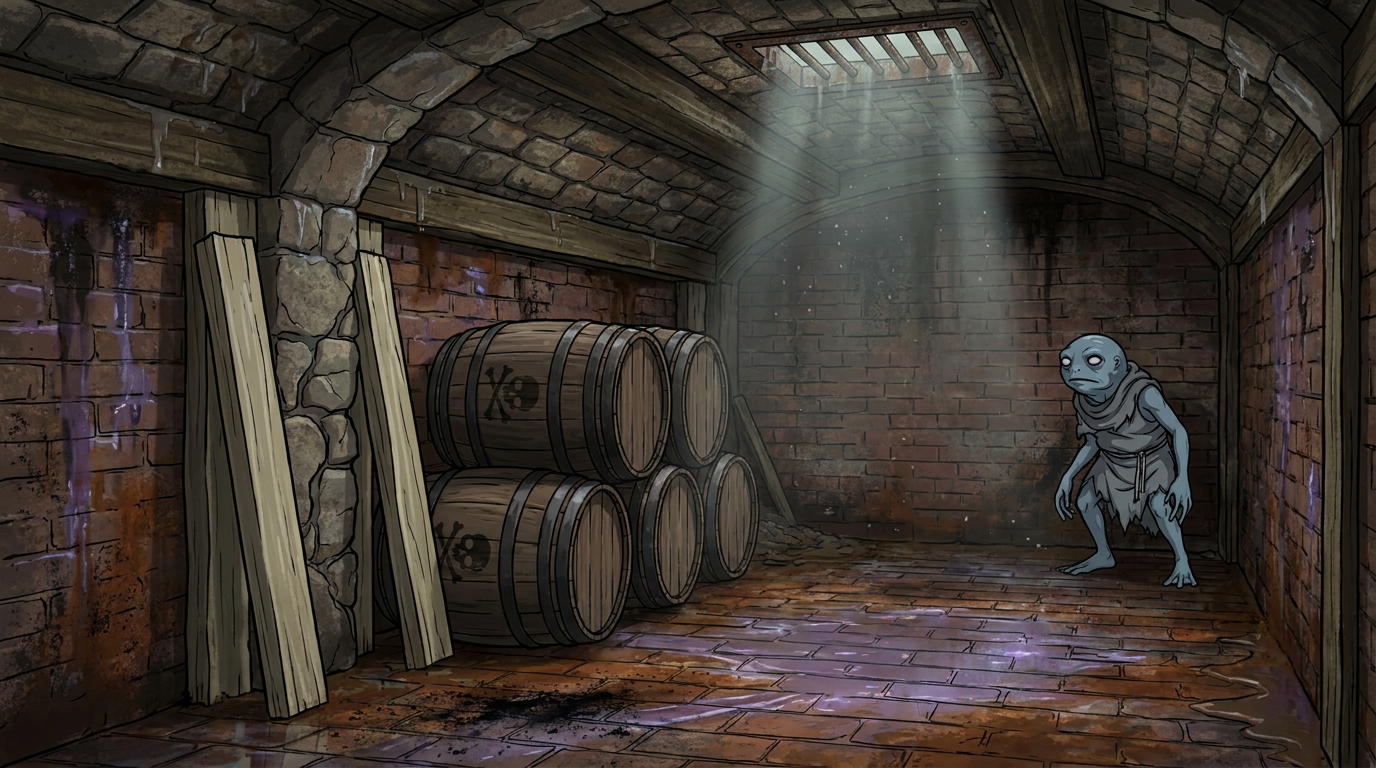
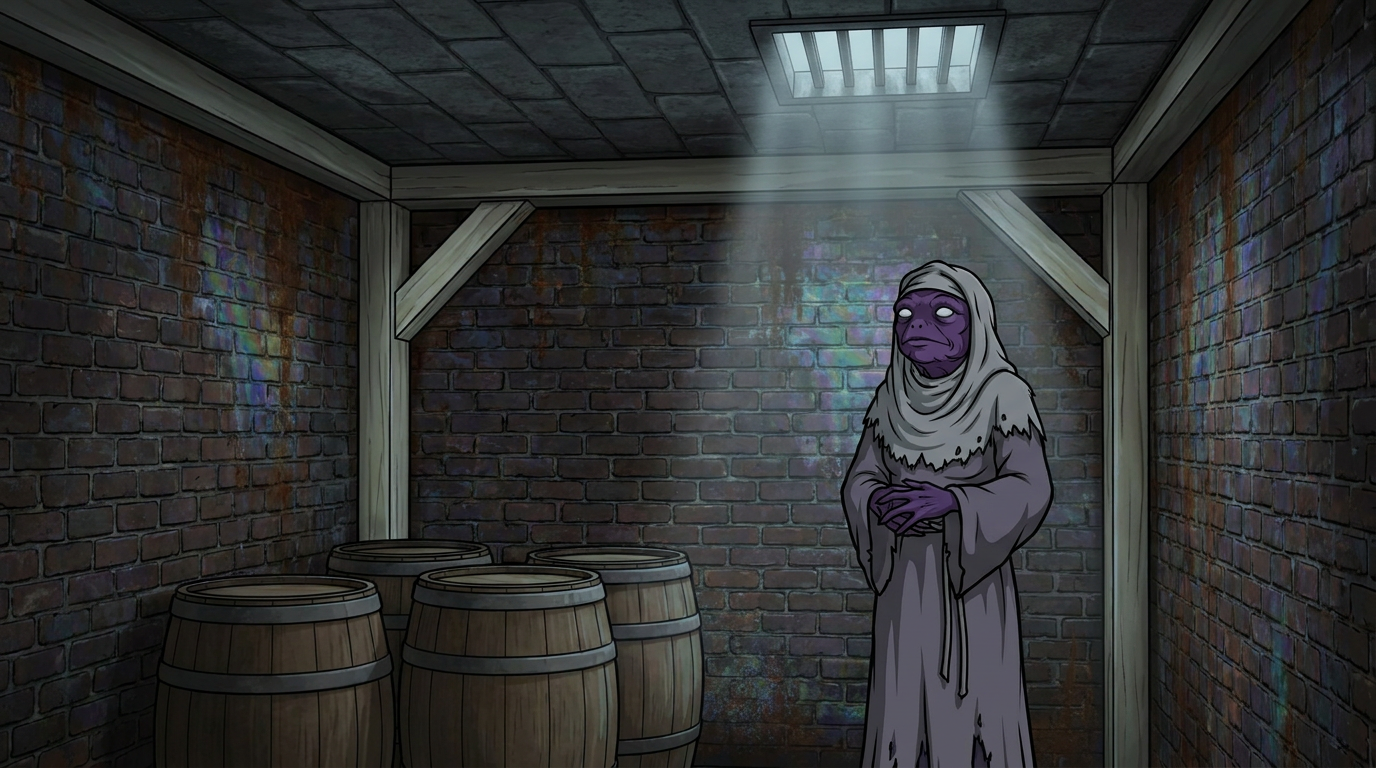
prep: correct Bazzoth and Vashu caste/age in art and canon
Both lieutenants were rendered with approximated appearances because neither
stat page recorded caste color, age, or sex. Corrected to canon:

- Bazzoth is an OLD RED-caste grung (not blue) — which also resolves the
  read-aloud contradicting the guide's own 'red-caste ritual practice' note
- Vashu is an OLDER FEMALE PURPLE-caste grung with blank white blind eyes

Regenerated both scene stills, synced the run-guide read-aloud + alt text, and
recorded an Appearance line on each stat page so future art won't re-approximate.

diff --git a/wiki/entities/creatures/active/bazzoth-the-steeped.md b/wiki/entities/creatures/active/bazzoth-the-steeped.md
@@ -1,0 +1,101 @@
+---
+type: monster
+subtype: monster
+campaign: shattered-sea
+status: active
+audience: dm
+publish: false
+summary: CR 6 grung lieutenant. Fearless alchemist-brawler soused on his own reagent-spirits; hurls acid/poison flasks, teleports through reeking steps, and can invoke a self-buff rite (Shed the Years) that sheds decades and turns his lash magical. Prepped for the back half of the Calveno sewer magazine dungeon.
+created: 2026-07-01
+updated: 2026-07-01
+tags:
+  - grung
+  - combat
+sources:
+  - Inbox/Bazzoth-Statblock.md
+confidence_level: high
+aliases:
+  - Bazzoth
+  - The Steeped
+cr: 6
+creature_type: humanoid
+environment: sewer, urban
+statblock: inline
+---
+
+# Bazzoth, the Steeped
+
+```statblock
+layout: Basic 5e Layout
+name: Bazzoth, the Steeped
+size: Small
+type: humanoid
+subtype: grung
+campaign: shattered-sea
+alignment: lawful evil
+ac: 15
+ac_class: bone-plate apron and bench-harness
+hp: 132
+hit_dice: 24d6 + 48
+speed: "25 ft., climb 25 ft., swim 25 ft."
+stats: [9, 14, 15, 18, 12, 15]
+saves:
+  - constitution: 5
+  - intelligence: 7
+skillsaves:
+  - arcana: 7
+  - medicine: 7
+  - nature: 7
+  - insight: 4
+damage_immunities: "poison"
+condition_immunities: "poisoned"
+senses: "passive Perception 14"
+languages: "Grung, Common"
+cr: 6
+traits:
+  - name: Steeped
+    desc: "Bazzoth is soused on the same reagent-spirits he distils, and it has pickled fear and doubt out of him. He has advantage on saving throws against being charmed or frightened, and on Constitution saving throws made to maintain concentration. A creature relying on scent to track or read him works at a disadvantage."
+  - name: Toxic Secretion
+    desc: "A creature that touches Bazzoth or hits him with a melee attack while within 5 feet, or that grapples him, must succeed on a DC 13 Constitution saving throw or take 5 (2d4) poison damage and be poisoned until the start of its next turn."
+  - name: Standing Leap
+    desc: "Bazzoth's long jump is 25 feet and his high jump is 15 feet, with or without a running start. He rarely bothers — until the rite is on him (see Shed the Years)."
+  - name: Master of the Bench
+    desc: "Bazzoth is never surprised while conscious, and is immune to the effects of his own concoctions. A creature that is poisoned has disadvantage on saving throws against his concoctions until the end of its next turn."
+  - name: "Legendary Resistance (1/Day)"
+    desc: "If Bazzoth fails a saving throw, he can choose to succeed instead. The old vintage does not go over on the first push — and the rite does not break on the first good hit."
+actions:
+  - name: Multiattack
+    desc: "Bazzoth makes two attacks, using Hurled Flask or Envenomed Lash in any combination. While Shed the Years is active, he makes one additional Envenomed Lash attack."
+  - name: Hurled Flask
+    desc: "Ranged Weapon Attack: +6 to hit, range 30/90 ft., one target. Hit: 11 (2d8 + 2) acid or poison damage (his choice each throw), and the target has disadvantage on the next saving throw it makes against one of Bazzoth's concoctions before the end of Bazzoth's next turn."
+  - name: Envenomed Lash
+    desc: "Melee Weapon Attack: +6 to hit, reach 10 ft., one target. Hit: 9 (2d6 + 2) poison damage, and the target must succeed on a DC 15 Constitution saving throw or be poisoned until the end of its next turn. While Shed the Years is active, this attack is magical, is made at +8 to hit, and deals an extra 5 (1d10) force damage."
+  - name: "Sump-Reek Bomb (Recharge 5–6)"
+    desc: "Bazzoth hurls a sealed bone flask that bursts into a 20-foot-radius cloud centred on a point he can see within 60 feet. Each creature in that area makes a DC 15 Constitution saving throw, taking 21 (6d6) poison damage on a failure, or half as much on a success. A creature that fails is also poisoned and repeats the save at the end of each of its turns, ending the effect on a success. The cloud lingers and heavily obscures its area until the start of Bazzoth's next turn; a creature that enters it for the first time on a turn, or starts its turn there, is subjected to the save."
+bonus_actions:
+  - name: Clinging Ichor
+    desc: "Bazzoth lobs a flask of sump-glue at a point he can see within 30 feet, coating a 10-foot-radius area that is difficult terrain until the start of his next turn. A creature in the area when it lands, or that enters it for the first time on a turn, must succeed on a DC 15 Strength saving throw or have its speed reduced to 0 until the end of its next turn. He cannot use this the same turn he invokes Shed the Years."
+  - name: "Shed the Years"
+    desc: "Bazzoth swigs from his gourd and speaks a red-caste rite over his own body, and decades unspool from it. He concentrates to maintain the rite (as if concentrating on a spell); it lasts up to 1 minute. While active: his walking speed increases by 15 feet and his movement no longer provokes opportunity attacks; he gains a +2 bonus to AC and has advantage on Dexterity saving throws; his melee attacks become magical, more accurate, and harder-hitting (see Envenomed Lash); and his Multiattack includes one additional Envenomed Lash. If his concentration is broken, the rite ends."
+reactions:
+  - name: "Reeking Step (3/Day)"
+    desc: "When Bazzoth takes damage, or a creature ends its turn within 5 feet of him, he speaks a short rite and steps through a puff of stinging reek, teleporting to an unoccupied space he can see within 30 feet. This movement does not provoke opportunity attacks."
+```
+
+## Notes
+
+**Appearance:** an old red-caste grung — thick and heavyset, brick-red hide dulled and mottled with age, sagging wattled throat; bone-plate apron over a bench-harness of reagent vials, an ever-present drinking gourd.
+
+Guards **Room 5 (Magazine Beta)** in the [[wiki/sessions/calveno-sewers-grung-magazines|Calveno sewer magazine dungeon]], alongside 2 Grung laborers (assigned 2026-07-01 — party had reached Room 6/Ruma and neutralized Room 4/Magazine Alpha). This escalates Room 5 well past its original "Hard" rating (~4,800 adj. XP) — verify against current party resources before running.
+
+Shed the Years is a concentration self-buff — breaking his concentration (any damage, DC 15+ half-damage Con save at the poisoned-disadvantage penalty) strips the extra attack, magical damage, and mobility. Reeking Step (3/day) makes him hard to pin in melee; Sump-Reek Bomb is his AoE anchor at Recharge 5-6.
+
+## Related
+
+- [[vashu-the-weeping-veil|Vashu, the Weeping Veil]]
+- [[ozvok-the-vermillion-distiller|Ozvok, the Vermillion Distiller]]
+- [[ozzeth-the-twiceborn|Ozzeth, the Twiceborn]]
+- [[grung-elite-warrior|Grung Elite Warrior]]
+- [[grung-clans|Grung Clans (Faction)]]
+- [[wiki/sessions/calveno-sewers-grung-magazines|Calveno Sewer Magazines]]
+- [[simone-tabarnack|Simone Tabarnack]]

diff --git a/wiki/sessions/session-06-run-guide.md b/wiki/sessions/session-06-run-guide.md
@@ -243,10 +243,10 @@ Once Room 6 is settled — rested or not — the party chooses where to head. Do
 
 *Room 5, off the mortared breach from Room 6. Run only if they open this door.*
 
-![[wiki/assets/sessions/session-06/06-magazine-beta-bazzoth.webp|Cinematic establishing still, Renaissance / Age-of-Sail world, adult animated cel-shaded illustration in the style of the TV show Archer — bold clean ink outlines, flat graphic color, hard cel shadows, no text or lettering. A grimy vaulted underground sewer magazine bay lit by pale green bioluminescent fungus and a low lantern. Half-built timber scaffolding climbs the left wall, one beam braced to the ceiling and another leaning loose; wooden blackpowder barrels sit on wet stone and half-sunk in a flooded corner, beside a hand drill, coiled rope with an iridescent chemical sheen, and a wooden bowl of cold rice. At a cluttered alchemist's mixing station in the wet corner stands Bazzoth, a thick heavyset small poison-dart-frog grung with smooth deep-blue skin, webbed hands, and a broad blunt frog face with heavy-lidded fearless eyes; he wears a bone-plate apron and a bench-harness of glass vials, and reaches for a battered drinking gourd, unhurried. Chemical haze hangs in the air. Cold green glow against warm lantern light. Generated with Nano Banana Pro (gemini-3-pro-image), 16:9.]]
+![[wiki/assets/sessions/session-06/06-magazine-beta-bazzoth.webp|Cinematic establishing still, Renaissance / Age-of-Sail world, adult animated cel-shaded illustration in the style of the TV show Archer — bold clean ink outlines, flat graphic color, hard cel shadows, no text or lettering. A grimy vaulted underground sewer magazine bay lit by pale green bioluminescent fungus and a low lantern. Half-built timber scaffolding climbs the left wall, one beam braced to the ceiling and another leaning loose; wooden blackpowder barrels sit on wet stone and half-sunk in a flooded corner, beside a hand drill, coiled rope with an iridescent chemical sheen, and a wooden bowl of cold rice. At a cluttered alchemist's mixing station in the wet corner stands Bazzoth, an old, thick, heavyset poison-dart-frog grung with deep brick-red skin gone dull and mottled with age, a sagging wattled throat, webbed hands, and a broad blunt frog face with heavy-lidded, fearless, slightly bloodshot eyes; he wears a bone-plate apron and a bench-harness of glass vials, and reaches for a battered drinking gourd, unhurried. Chemical haze hangs in the air. Cold green glow against warm lantern light. Generated with Nano Banana Pro (gemini-3-pro-image), 16:9.]]
 
 > [!read-aloud]
-> The breach opens into a working bay, and the chemical bite here is worse — concentrated, with nowhere to vent. Scaffolding climbs one wall half-built, one beam braced to the ceiling, another leaning loose. Barrels sit on the stones and in the flooded corner, not yet stacked, beside a hand drill, coiled rope slick with iridescent residue, and a wooden bowl of cold rice. A thick blue Grung looks up from a mixing station in the wet corner, unhurried, and reaches for his gourd.
+> The breach opens into a working bay, and the chemical bite here is worse — concentrated, with nowhere to vent. Scaffolding climbs one wall half-built, one beam braced to the ceiling, another leaning loose. Barrels sit on the stones and in the flooded corner, not yet stacked, beside a hand drill, coiled rope slick with iridescent residue, and a wooden bowl of cold rice. A thick old Grung, red hide gone dull and mottled, looks up from a mixing station in the wet corner, unhurried, and reaches for his gourd.
 
 **What's true:** [[bazzoth-the-steeped|Bazzoth, the Steeped]] (CR 6) has claimed Beta as his working magazine, backed by 2 [[grung-npc|Grung]] laborers — one building the scaffold, one watching the tunnel mouth. His attention is split; the party gains **advantage on Stealth to approach.** Six blackpowder barrels sit loose, not stacked.
 
@@ -269,7 +269,7 @@ Once Room 6 is settled — rested or not — the party chooses where to head. Do
 
 *Room T1, via Room 7 then backtrack to Room 3's barred culvert. Run only if they open this door.*
 
-![[wiki/assets/sessions/session-06/06-magazine-gamma-vashu.webp|Cinematic establishing still, Renaissance / Age-of-Sail world, adult animated cel-shaded illustration in the style of the TV show Archer — bold clean ink outlines, flat graphic color, hard cel shadows, no text or lettering. A cramped, low old-brick underground magazine with a five-foot ceiling pressing close to the waterline, dim and claustrophobic. Four wooden blackpowder barrels sit under a stone seam braced with fresh pale timber; rust, powder, and an iridescent chemical film coat the wet brick. Against the far wall stands Vashu, a small poison-dart-frog grung monk with smooth muted blue-grey skin and webbed hands, utterly still, head tilted as if listening; her eyes are blind and clouded milky-white, and she is wrapped in a tattered grey rag veil and simple monastic cloth wraps. A single dim shaft of light falls from a drain grate above. Cool, shadowed, tense. Generated with Nano Banana Pro (gemini-3-pro-image), 16:9.]]
+![[wiki/assets/sessions/session-06/06-magazine-gamma-vashu.webp|Cinematic establishing still, Renaissance / Age-of-Sail world, adult animated cel-shaded illustration in the style of the TV show Archer — bold clean ink outlines, flat graphic color, hard cel shadows, no text or lettering. A cramped, low old-brick underground magazine with a five-foot ceiling pressing close to the waterline, dim and claustrophobic. Four wooden blackpowder barrels sit under a stone seam braced with fresh pale timber; rust, powder, and an iridescent chemical film coat the wet brick. Against the far wall stands Vashu, an older female poison-dart-frog grung monk with smooth deep-purple skin and webbed hands, dignified and composed, standing upright and utterly still with quiet monastic poise, head calmly tilted as if listening; her blind eyes are fully blank milk-white with no pupils, and she wears a tattered grey rag veil draped over her head and simple monastic robes and wraps. A single soft shaft of light falls from a drain grate above and catches her. Cool, shadowed, still, reverent. Generated with Nano Banana Pro (gemini-3-pro-image), 16:9.]]
 
 > [!read-aloud]
 > The culvert opens into older brickwork, lower and tighter — a five-foot ceiling that puts your face near the waterline. Four barrels sit under a stone seam braced with fresh timber. Powder, rust, and the same sweet chemical film thicken in the tight space until breathing feels deliberate. Festival feet drum faintly through the Bridge stones overhead. A blind Grung in a rag veil stands utterly still against the far wall, head tilted, listening.

diff --git a/wiki/entities/creatures/active/vashu-the-weeping-veil.md b/wiki/entities/creatures/active/vashu-the-weeping-veil.md
@@ -1,0 +1,97 @@
+---
+type: monster
+subtype: monster
+campaign: shattered-sea
+status: active
+audience: dm
+publish: false
+summary: CR 5 grung lieutenant. Blind fighter who perceives by vibration and scent, fights with poisoned unarmed strikes, and covers herself in a blinding/poisoning bone-vial mist. Prepped for the back half of the Calveno sewer magazine dungeon.
+created: 2026-07-01
+updated: 2026-07-01
+tags:
+  - grung
+  - combat
+sources:
+  - Inbox/Vashu-Statblock.md
+confidence_level: high
+aliases:
+  - Vashu
+  - The Weeping Veil
+cr: 5
+creature_type: humanoid
+environment: sewer, urban
+statblock: inline
+---
+
+# Vashu, the Weeping Veil
+
+```statblock
+layout: Basic 5e Layout
+name: Vashu, the Weeping Veil
+size: Small
+type: humanoid
+subtype: grung
+alignment: lawful evil
+ac: 16
+ac_class: unarmored (still-water discipline)
+hp: 97
+hit_dice: 15d6 + 45
+speed: "30 ft., climb 30 ft."
+stats: [12, 18, 16, 11, 17, 13]
+saves:
+  - dexterity: 7
+  - wisdom: 6
+skillsaves:
+  - acrobatics: 7
+  - athletics: 4
+  - insight: 6
+  - perception: 6
+damage_immunities: "poison"
+condition_immunities: "blinded, poisoned"
+senses: "blindsight 30 ft. (blind beyond this radius), passive Perception 16"
+languages: "Grung"
+cr: 5
+traits:
+  - name: Blind Discipline
+    desc: "Vashu can't use sight and is unaffected by anything that relies on seeing her or on obscured vision. She perceives everything within 30 feet by vibration and scent, ignoring darkness, fog, invisibility, and her own Weeping Veil. An attacker Vashu can perceive gains no benefit from being unseen."
+  - name: Standing Leap
+    desc: "Vashu's long jump is 25 feet and her high jump is 15 feet, with or without a running start."
+  - name: Evasion
+    desc: "When Vashu is subjected to an effect that allows a Dexterity saving throw for half damage, she instead takes no damage on a success and half on a failure."
+  - name: Venom-Wet Strikes
+    desc: "A creature that hits Vashu with a melee attack while within 5 feet of her, or that grapples her, must succeed on a DC 14 Constitution saving throw or be poisoned until the start of its next turn."
+actions:
+  - name: Multiattack
+    desc: "Vashu makes three Still-Water Strike attacks."
+  - name: Still-Water Strike
+    desc: "Melee Weapon Attack: +7 to hit, reach 5 ft., one target. Hit: 8 (1d6 + 4) bludgeoning damage. If the target is poisoned, it also takes 7 (2d6) poison damage."
+  - name: "Pressure Point (Recharge 5–6)"
+    desc: "Vashu strikes a nerve cluster on one creature she can perceive within 5 feet. The target must make a DC 14 Constitution saving throw. On a failure, it is stunned until the end of Vashu's next turn. On a success, its speed is halved and it is poisoned until the end of its next turn."
+bonus_actions:
+  - name: "Weeping Veil (Recharge 5–6)"
+    desc: "Vashu shatters a bone vial, releasing a bitter mist in a 20-foot-radius sphere centered on herself. The area is heavily obscured until the start of her next turn. Each creature that starts its turn in the area, or enters it for the first time on a turn, must succeed on a DC 14 Constitution saving throw or be blinded and poisoned until the end of that turn. Vashu is unaffected. She carries 3 vials."
+  - name: Step of the Tide
+    desc: "Vashu takes the Dash or Disengage action."
+reactions:
+  - name: Still-Water Deflection
+    desc: "When Vashu is hit by a ranged attack she can perceive, she reduces the damage by 13 (2d10 + 4). If this reduces the damage to 0, she can redirect the missile at a creature she can perceive within 30 feet: +7 to hit, 11 (2d10) damage of the triggering attack's type."
+```
+
+## Notes
+
+**Appearance:** an older female purple-caste grung — lean and sinewy with age, smooth deep-purple hide, blind eyes gone fully blank milk-white; a tattered grey rag veil draped over her head and simple monastic robes and wraps.
+
+Guards **Room T1 (Magazine Gamma)** in the [[wiki/sessions/calveno-sewers-grung-magazines|Calveno sewer magazine dungeon]], with 1 [[purple-caste-enforcer|Purple-Caste Enforcer]] escort (assigned 2026-07-01 — party had reached Room 6/Ruma and neutralized Room 4/Magazine Alpha).
+
+Blind Discipline defeats invisibility, darkness, and obscurement-based tactics within 30 ft — including her own Weeping Veil. Fits the low 5-ft ceiling and cramped footprint of T1 especially well: blindsight covers the whole room regardless of light or fog. Evasion plus Still-Water Deflection make her resilient against ranged and AoE parties.
+
+## Related
+
+- [[purple-caste-enforcer|Purple-Caste Enforcer]]
+- [[bazzoth-the-steeped|Bazzoth, the Steeped]]
+- [[ozvok-the-vermillion-distiller|Ozvok, the Vermillion Distiller]]
+- [[ozzeth-the-twiceborn|Ozzeth, the Twiceborn]]
+- [[grung-elite-warrior|Grung Elite Warrior]]
+- [[grung-clans|Grung Clans (Faction)]]
+- [[wiki/sessions/calveno-sewers-grung-magazines|Calveno Sewer Magazines]]
+- [[simone-tabarnack|Simone Tabarnack]]
